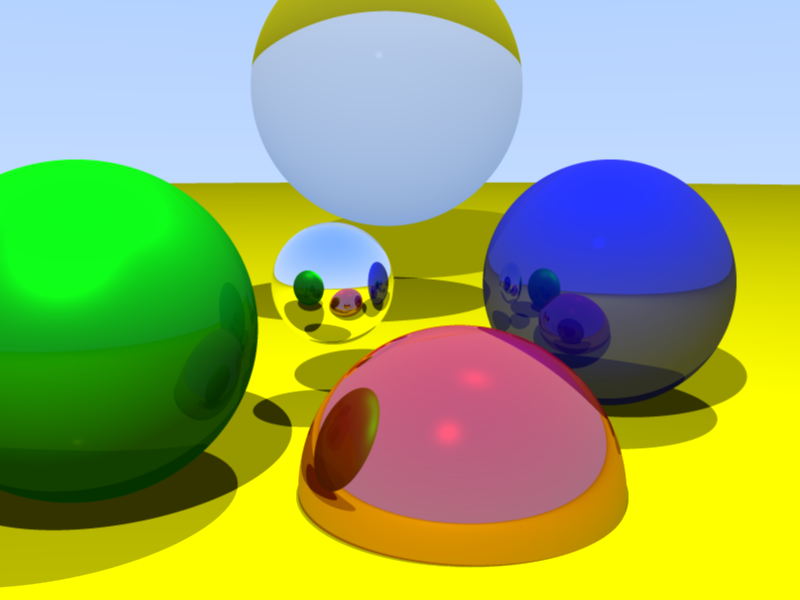
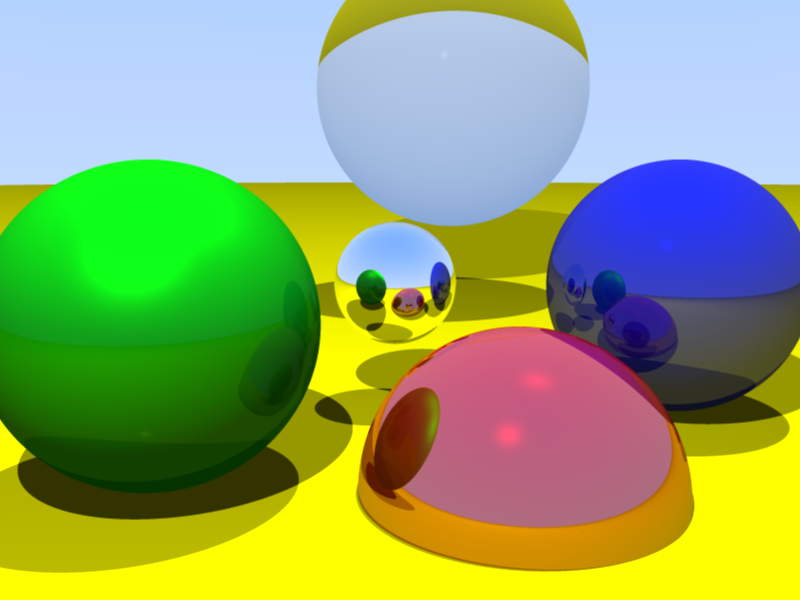
improve example

diff --git a/src/raytracer.cpp b/src/raytracer.cpp
@@ -125,7 +125,7 @@ void raytracer(Canvas &canvas) {
 
   // Camera position for the ray origin.
   double zoom = 1;
-  Camera cam(Point3<double>(-2.5 * zoom, 2.0 * zoom, -1.0 * zoom), 27.5, 10, 0);
+  Camera cam(Point3<double>(-2.5 * zoom, 2.0 * zoom, -1.0 * zoom), 23, 10, 0);
 
   // World
   Scene<double> world;
